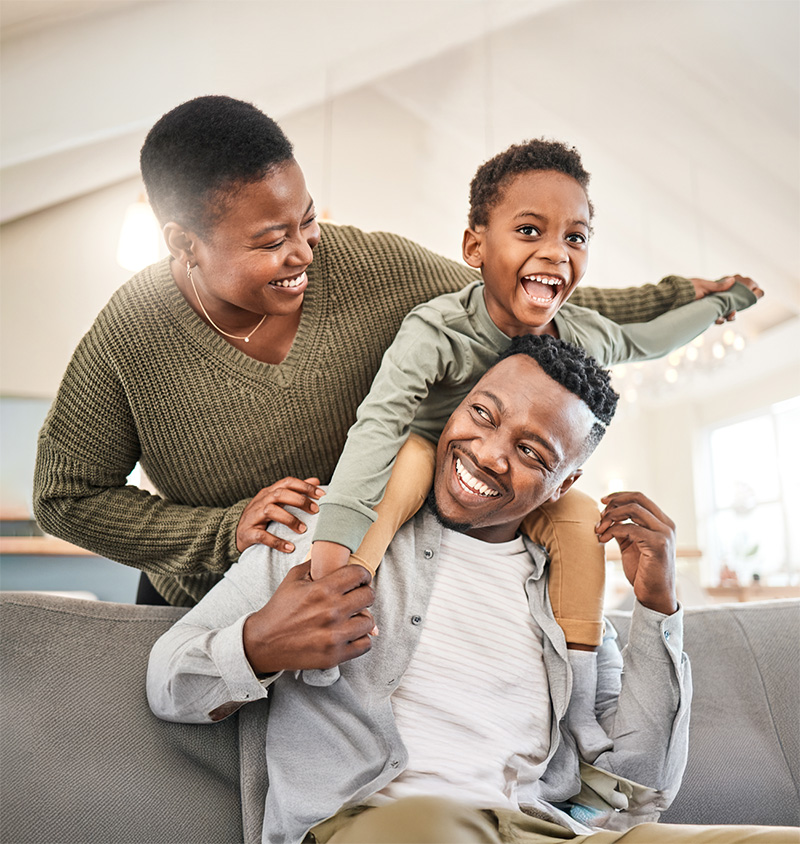
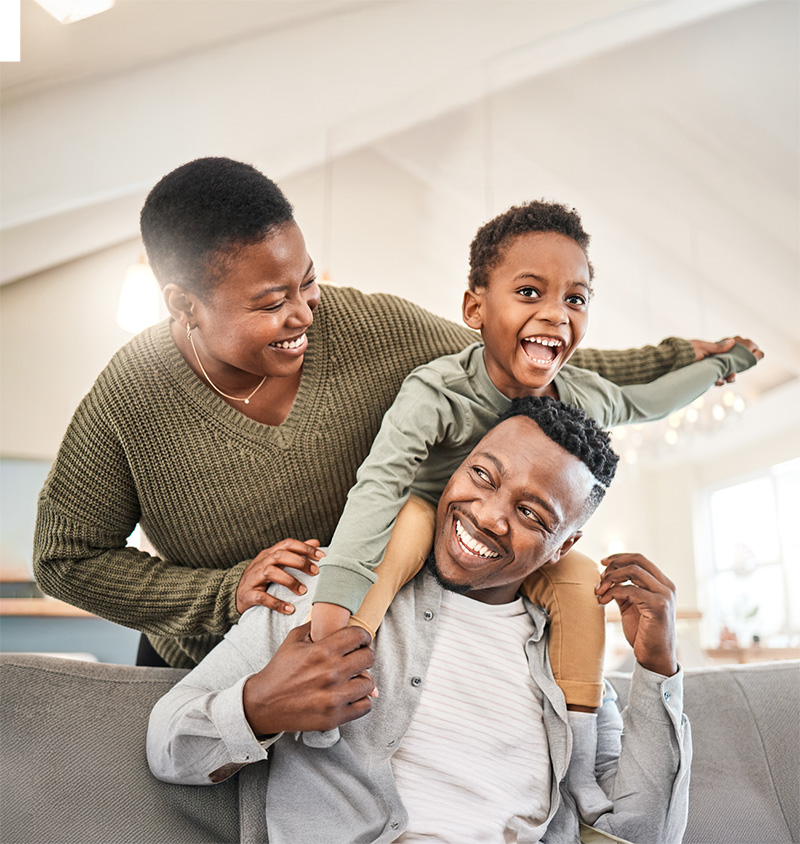
Add files via upload

diff --git a/css/slider_styles.css b/css/slider_styles.css
@@ -86,60 +86,152 @@
 
 /* Custom width properties for slide images - Responsive breakpoints */
 
-/* Mobile: ≤768px */
-@media (max-width: 768px) {
-  .slide-image[data-mobile-max-width][data-mobile-width-unit="percent"] img {
-    max-width: calc(var(--mobile-max-width, 100) * 1%);
+/* Narrowest: <500px */
+@media (max-width: 499px) {
+  .slide-image[data-narrowest-max-width][data-narrowest-width-unit="percent"] img {
+    max-width: calc(var(--narrowest-max-width, 100) * 1%);
   }
 
-  .slide-image[data-mobile-max-width][data-mobile-width-unit="px"] img {
-    max-width: calc(var(--mobile-max-width, 100) * 1px);
+  .slide-image[data-narrowest-max-width][data-narrowest-width-unit="px"] img {
+    max-width: calc(var(--narrowest-max-width, 100) * 1px);
   }
 
-  .slide-image[data-mobile-width-percentage][data-mobile-width-unit="percent"] img {
-    width: calc(var(--mobile-width-percentage, auto) * 1%);
+  .slide-image[data-narrowest-width-percentage][data-narrowest-width-unit="percent"] img {
+    width: calc(var(--narrowest-width-percentage, auto) * 1%);
   }
 
-  .slide-image[data-mobile-width-percentage][data-mobile-width-unit="px"] img {
-    width: calc(var(--mobile-width-percentage, auto) * 1px);
-  }
-}
-
-/* Tablet: 769px to 1399px */
-@media (min-width: 769px) and (max-width: 1399px) {
-  .slide-image[data-tablet-max-width][data-tablet-width-unit="percent"] img {
-    max-width: calc(var(--tablet-max-width, 100) * 1%);
-  }
-
-  .slide-image[data-tablet-max-width][data-tablet-width-unit="px"] img {
-    max-width: calc(var(--tablet-max-width, 100) * 1px);
-  }
-
-  .slide-image[data-tablet-width-percentage][data-tablet-width-unit="percent"] img {
-    width: calc(var(--tablet-width-percentage, auto) * 1%);
-  }
-
-  .slide-image[data-tablet-width-percentage][data-tablet-width-unit="px"] img {
-    width: calc(var(--tablet-width-percentage, auto) * 1px);
+  .slide-image[data-narrowest-width-percentage][data-narrowest-width-unit="px"] img {
+    width: calc(var(--narrowest-width-percentage, auto) * 1px);
   }
 }
 
-/* Desktop: ≥1400px */
-@media (min-width: 1400px) {
-  .slide-image[data-desktop-max-width][data-desktop-width-unit="percent"] img {
-    max-width: calc(var(--desktop-max-width, 100) * 1%);
+/* Middle: 500px to 768px */
+@media (min-width: 500px) and (max-width: 768px) {
+  .slide-image[data-middle-max-width][data-middle-width-unit="percent"] img {
+    max-width: calc(var(--middle-max-width, 100) * 1%);
   }
 
-  .slide-image[data-desktop-max-width][data-desktop-width-unit="px"] img {
-    max-width: calc(var(--desktop-max-width, 100) * 1px);
+  .slide-image[data-middle-max-width][data-middle-width-unit="px"] img {
+    max-width: calc(var(--middle-max-width, 100) * 1px);
   }
 
-  .slide-image[data-desktop-width-percentage][data-desktop-width-unit="percent"] img {
-    width: calc(var(--desktop-width-percentage, auto) * 1%);
+  .slide-image[data-middle-width-percentage][data-middle-width-unit="percent"] img {
+    width: calc(var(--middle-width-percentage, auto) * 1%);
   }
 
-  .slide-image[data-desktop-width-percentage][data-desktop-width-unit="px"] img {
-    width: calc(var(--desktop-width-percentage, auto) * 1px);
+  .slide-image[data-middle-width-percentage][data-middle-width-unit="px"] img {
+    width: calc(var(--middle-width-percentage, auto) * 1px);
+  }
+}
+
+/* Widest: >768px */
+@media (min-width: 769px) {
+  .slide-image[data-widest-max-width][data-widest-width-unit="percent"] img {
+    max-width: calc(var(--widest-max-width, 100) * 1%);
+  }
+
+  .slide-image[data-widest-max-width][data-widest-width-unit="px"] img {
+    max-width: calc(var(--widest-max-width, 100) * 1px);
+  }
+
+  .slide-image[data-widest-width-percentage][data-widest-width-unit="percent"] img {
+    width: calc(var(--widest-width-percentage, auto) * 1%);
+  }
+
+  .slide-image[data-widest-width-percentage][data-widest-width-unit="px"] img {
+    width: calc(var(--widest-width-percentage, auto) * 1px);
+  }
+}
+
+/* Custom height clipping properties for slide images - Responsive breakpoints */
+
+/* Narrowest: <500px */
+@media (max-width: 499px) {
+  .slide-image[data-narrowest-clip-height-px] {
+    max-height: calc(var(--narrowest-clip-height, 300) * 1px);
+    overflow: hidden;
+  }
+}
+
+/* Middle: 500px to 768px */
+@media (min-width: 500px) and (max-width: 768px) {
+  .slide-image[data-middle-clip-height-px] {
+    max-height: calc(var(--middle-clip-height, 300) * 1px);
+    overflow: hidden;
+  }
+}
+
+/* Widest: >768px */
+@media (min-width: 769px) {
+  .slide-image[data-widest-clip-height-px] {
+    max-height: calc(var(--widest-clip-height, 300) * 1px);
+    overflow: hidden;
+  }
+}
+
+/* Custom width properties for slide text - Responsive breakpoints */
+
+/* Narrowest: <500px */
+@media (max-width: 499px) {
+  .slide-text[data-narrowest-width-px] {
+    max-width: calc(var(--narrowest-text-width, 100) * 1px);
+  }
+  
+  .slide-text[data-narrowest-width-percent] {
+    max-width: calc(var(--narrowest-text-width-percent, 100) * 1%);
+  }
+}
+
+/* Middle: 500px to 768px */
+@media (min-width: 500px) and (max-width: 768px) {
+  .slide-text[data-middle-width-px] {
+    max-width: calc(var(--middle-text-width, 100) * 1px);
+  }
+  
+  .slide-text[data-middle-width-percent] {
+    max-width: calc(var(--middle-text-width-percent, 100) * 1%);
+  }
+}
+
+/* Widest: >768px */
+@media (min-width: 769px) {
+  .slide-text[data-widest-width-px] {
+    max-width: calc(var(--widest-text-width, 100) * 1px);
+  }
+  
+  .slide-text[data-widest-width-percent] {
+    max-width: calc(var(--widest-text-width-percent, 100) * 1%);
+  }
+}
+
+/* Custom reverse properties for slide content - Responsive breakpoints */
+
+/* Narrowest: <500px - Collapsed layout with optional reverse */
+@media (max-width: 499px) {
+  .slide-content {
+    flex-direction: column;
+  }
+  
+  .slide-content[data-narrowest-reverse="yes"] {
+    flex-direction: column-reverse;
+  }
+}
+
+/* Middle: 500px to 768px - Collapsed layout with optional reverse */
+@media (min-width: 500px) and (max-width: 768px) {
+  .slide-content {
+    flex-direction: column;
+  }
+  
+  .slide-content[data-middle-reverse="yes"] {
+    flex-direction: column-reverse;
+  }
+}
+
+/* Widest: >768px - Horizontal layout with optional reverse */
+@media (min-width: 769px) {
+  .slide-content[data-widest-reverse="yes"] {
+    flex-direction: row-reverse;
   }
 }
 

diff --git a/js/gb-slider.js b/js/gb-slider.js
@@ -14,47 +14,103 @@ function loadSliderContent() {
     });
 }
 
-// Function to apply custom image properties from data attributes
+// Function to apply custom image and text properties from data attributes
 function applyCustomImageProperties() {
   const slideImages = document.querySelectorAll('.slide-image');
+  const slideTexts = document.querySelectorAll('.slide-text');
+  const slideContents = document.querySelectorAll('.slide-content');
   
   slideImages.forEach(slideImage => {
-    // Mobile properties
-    const mobileMaxWidth = slideImage.getAttribute('data-mobile-max-width');
-    const mobileWidthPercentage = slideImage.getAttribute('data-mobile-width-percentage');
+    // Narrowest properties
+    const narrowestMaxWidth = slideImage.getAttribute('data-narrowest-max-width');
+    const narrowestWidthPercentage = slideImage.getAttribute('data-narrowest-width-percentage');
+    const narrowestClipHeight = slideImage.getAttribute('data-narrowest-clip-height-px');
     
-    // Tablet properties
-    const tabletMaxWidth = slideImage.getAttribute('data-tablet-max-width');
-    const tabletWidthPercentage = slideImage.getAttribute('data-tablet-width-percentage');
+    // Middle properties
+    const middleMaxWidth = slideImage.getAttribute('data-middle-max-width');
+    const middleWidthPercentage = slideImage.getAttribute('data-middle-width-percentage');
+    const middleClipHeight = slideImage.getAttribute('data-middle-clip-height-px');
     
-    // Desktop properties
-    const desktopMaxWidth = slideImage.getAttribute('data-desktop-max-width');
-    const desktopWidthPercentage = slideImage.getAttribute('data-desktop-width-percentage');
+    // Widest properties
+    const widestMaxWidth = slideImage.getAttribute('data-widest-max-width');
+    const widestWidthPercentage = slideImage.getAttribute('data-widest-width-percentage');
+    const widestClipHeight = slideImage.getAttribute('data-widest-clip-height-px');
     
-    // Apply mobile properties
-    if (mobileMaxWidth) {
-      slideImage.style.setProperty('--mobile-max-width', mobileMaxWidth);
+    // Apply narrowest properties
+    if (narrowestMaxWidth) {
+      slideImage.style.setProperty('--narrowest-max-width', narrowestMaxWidth);
     }
-    if (mobileWidthPercentage) {
-      slideImage.style.setProperty('--mobile-width-percentage', mobileWidthPercentage);
+    if (narrowestWidthPercentage) {
+      slideImage.style.setProperty('--narrowest-width-percentage', narrowestWidthPercentage);
     }
-    
-    // Apply tablet properties
-    if (tabletMaxWidth) {
-      slideImage.style.setProperty('--tablet-max-width', tabletMaxWidth);
-    }
-    if (tabletWidthPercentage) {
-      slideImage.style.setProperty('--tablet-width-percentage', tabletWidthPercentage);
+    if (narrowestClipHeight) {
+      slideImage.style.setProperty('--narrowest-clip-height', narrowestClipHeight);
     }
     
-    // Apply desktop properties
-    if (desktopMaxWidth) {
-      slideImage.style.setProperty('--desktop-max-width', desktopMaxWidth);
+    // Apply middle properties
+    if (middleMaxWidth) {
+      slideImage.style.setProperty('--middle-max-width', middleMaxWidth);
     }
-    if (desktopWidthPercentage) {
-      slideImage.style.setProperty('--desktop-width-percentage', desktopWidthPercentage);
+    if (middleWidthPercentage) {
+      slideImage.style.setProperty('--middle-width-percentage', middleWidthPercentage);
+    }
+    if (middleClipHeight) {
+      slideImage.style.setProperty('--middle-clip-height', middleClipHeight);
+    }
+    
+    // Apply widest properties
+    if (widestMaxWidth) {
+      slideImage.style.setProperty('--widest-max-width', widestMaxWidth);
+    }
+    if (widestWidthPercentage) {
+      slideImage.style.setProperty('--widest-width-percentage', widestWidthPercentage);
+    }
+    if (widestClipHeight) {
+      slideImage.style.setProperty('--widest-clip-height', widestClipHeight);
     }
   });
+  
+  // Apply slide-text custom properties
+  slideTexts.forEach(slideText => {
+    // Narrowest properties
+    const narrowestWidthPx = slideText.getAttribute('data-narrowest-width-px');
+    const narrowestWidthPercent = slideText.getAttribute('data-narrowest-width-percent');
+    
+    // Middle properties
+    const middleWidthPx = slideText.getAttribute('data-middle-width-px');
+    const middleWidthPercent = slideText.getAttribute('data-middle-width-percent');
+    
+    // Widest properties
+    const widestWidthPx = slideText.getAttribute('data-widest-width-px');
+    const widestWidthPercent = slideText.getAttribute('data-widest-width-percent');
+    
+    // Apply narrowest properties
+    if (narrowestWidthPx) {
+      slideText.style.setProperty('--narrowest-text-width', narrowestWidthPx);
+    }
+    if (narrowestWidthPercent) {
+      slideText.style.setProperty('--narrowest-text-width-percent', narrowestWidthPercent);
+    }
+    
+    // Apply middle properties
+    if (middleWidthPx) {
+      slideText.style.setProperty('--middle-text-width', middleWidthPx);
+    }
+    if (middleWidthPercent) {
+      slideText.style.setProperty('--middle-text-width-percent', middleWidthPercent);
+    }
+    
+    // Apply widest properties
+    if (widestWidthPx) {
+      slideText.style.setProperty('--widest-text-width', widestWidthPx);
+    }
+    if (widestWidthPercent) {
+      slideText.style.setProperty('--widest-text-width-percent', widestWidthPercent);
+    }
+  });
+  
+  // Note: slide-content reverse properties are handled directly by CSS attribute selectors
+  // No JavaScript processing needed for data-narrowest-reverse, data-middle-reverse, data-widest-reverse
 }
 
 // Function to equalize slide heights

diff --git a/index-slider.html b/index-slider.html
@@ -2,30 +2,50 @@
 	<div class="glide__track" data-glide-el="track">
 		<ul class="glide__slides">
 			<li class="glide__slide">
-				<div class="slide-content">
-					<div class="slide-text">
+				<div class="slide-content" 
+					 data-narrowest-reverse="no"
+					 data-middle-reverse="yes" 
+					 data-widest-reverse="no">
+					<div class="slide-text" 
+						 data-narrowest-width-px="500"
+						 data-middle-width-percent="80"
+						 data-widest-width-px="999">
 						<h2>Up To $3,500 in Rebates on Your Next Amana System!</h2>
 						<p>Click below to connect with a Local and Preferred Amana dealer near you to learn more about different Rebates and Tax Credits you can take advantage of.</p>
         
 					</div>
-					<div class="slide-image" data-max-width="300" data-width-unit="px">
+					<div class="slide-image" 
+                        data-narrowest-max-width="200" 
+						 data-narrowest-width-unit="px"
+						 data-middle-max-width="250" 
+						 data-middle-width-unit="px"
+						 data-widest-max-width="400" 
+						 data-widest-width-unit="px">
 						<img src="img/slider-img/amana_rebate.png" alt="Amana Product">
 					</div>
 				</div>
 			</li>
 			<li class="glide__slide">
-				<div class="slide-content">
-					<div class="slide-text">
+				<div class="slide-content"
+					 data-narrowest-reverse="yes"
+					 data-middle-reverse="yes" 
+					 data-widest-reverse="no">
+					<div class="slide-text pt-4"
+                    data-narrowest-width-px="999"
+						 data-middle-width-percent="80"
+						 data-widest-width-px="999">
 						<h2>Why Amana?</h2>
 						<p>Experience dependable, American-made comfort with Amana HVAC systems built for lasting performance and efficiency. Backed by advanced technology and industry-leading warranties, Amana delivers confidence you can feel every day.</p>
 					</div>
-					<div class="slide-image" 
-                         data-mobile-max-width="100" 
-						 data-mobile-width-unit="percent"
-						 data-tablet-max-width="60" 
-						 data-tablet-width-unit="percent"
-						 data-desktop-max-width="100" 
-						 data-desktop-width-unit="percent">
+					<div class="slide-image rounded" 
+                         data-narrowest-max-width="100" 
+						 data-narrowest-width-unit="percent"
+                         data-narrowest-clip-height-px="200"
+						 data-middle-max-width="100" 
+						 data-middle-width-unit="percent"
+                         data-middle-clip-height-px="200"
+						 data-widest-max-width="500" 
+						 data-widest-width-unit="px">
 						<img src="img/slider-img/family1.jpg" alt="Comfort Solutions">
 					</div>
 				</div>
